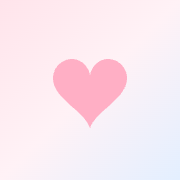
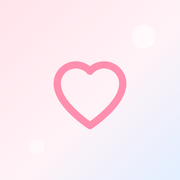
修复：重新生成 180/192 主屏幕图标（原图被裁切）

Changed region(s): [[0.2778, 0.3056, 0.7222, 0.7222]]

diff --git a/sw.js b/sw.js
@@ -1,5 +1,5 @@
 /* 轻盈日记 · 离线缓存 */
-const CACHE = 'qingying-v4';
+const CACHE = 'qingying-v5';
 const ASSETS = [
   './',
   './index.html',
